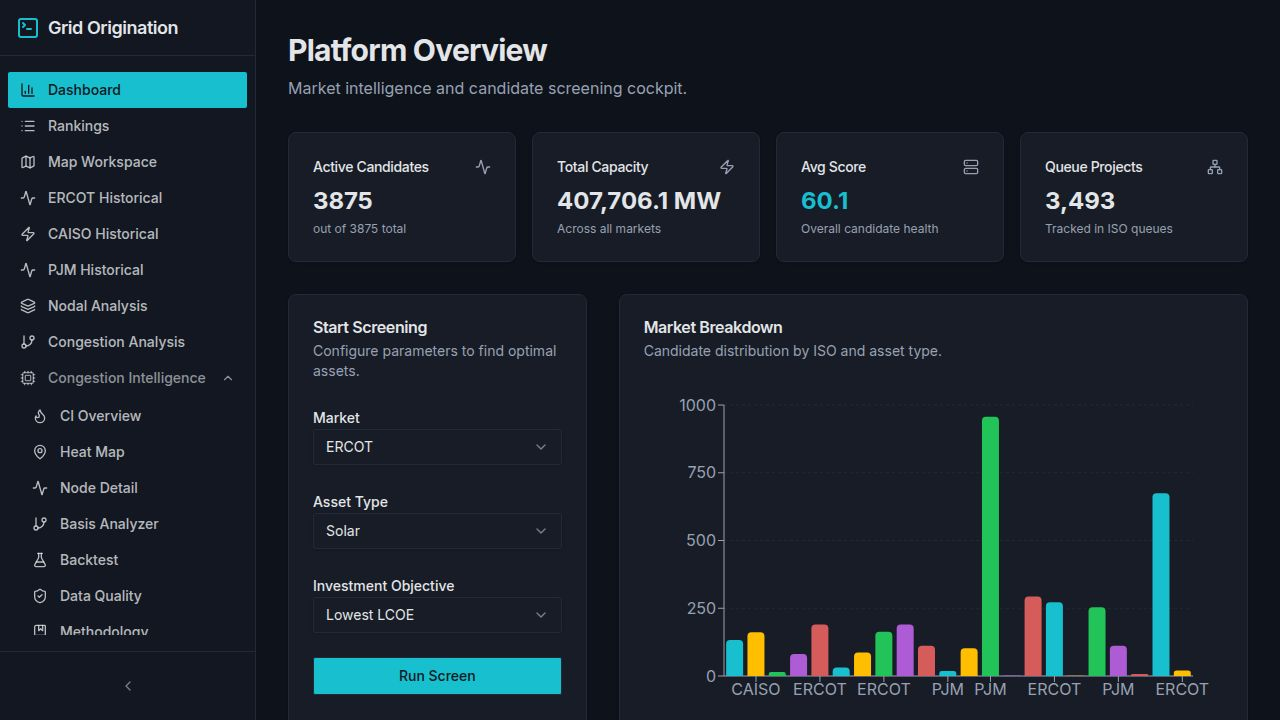
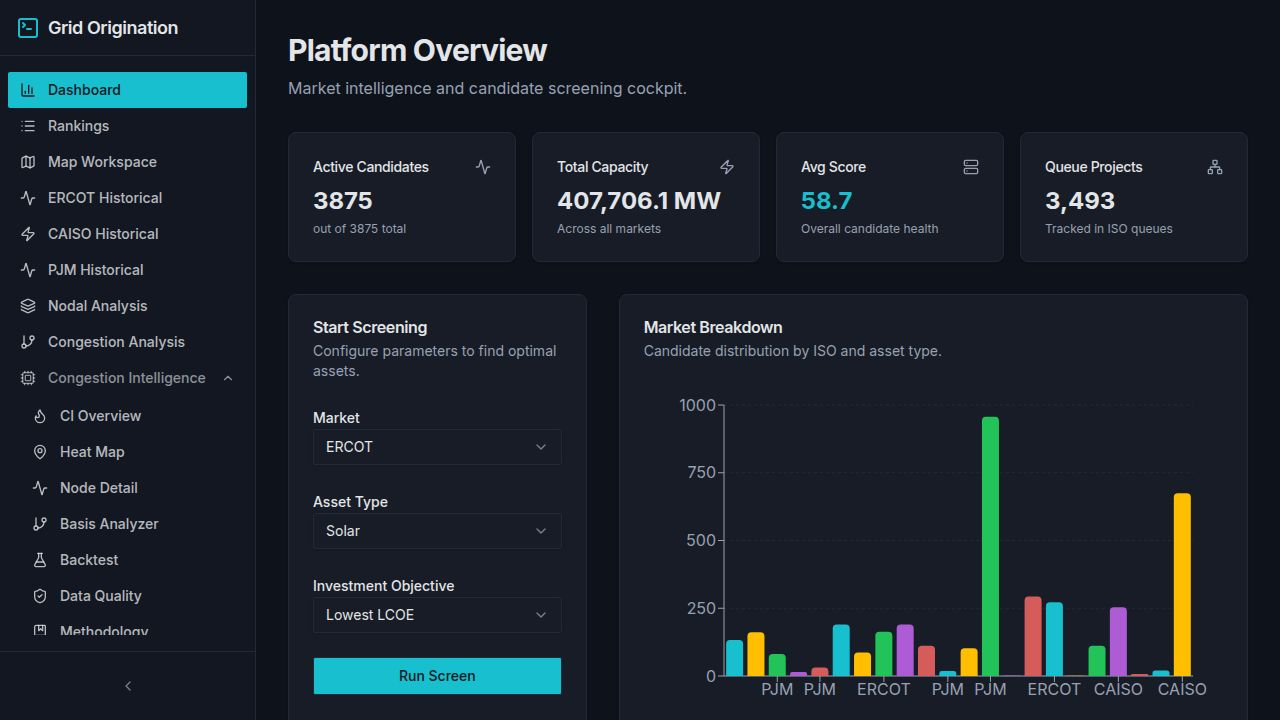
Connect Q&A Copilot to OpenAI with live DB tool-calling
Task: Connect the Q&A Copilot to OpenAI so it can answer real questions about the data

## What was done

### OpenAI integration provisioned
- Called setupReplitAIIntegrations() to provision AI_INTEGRATIONS_OPENAI_BASE_URL
  and AI_INTEGRATIONS_OPENAI_API_KEY via the Replit AI Integrations proxy (no API key needed)

### Upgraded chat.ts model and parameters
- Upgraded model from legacy gpt-4o → gpt-5.4
- Fixed max_tokens (deprecated) → max_completion_tokens: 8192
- Increased tool call rounds from 3 → 4 for multi-step queries
- Moved SSE header setup to top of handler so error events also stream correctly
- Added sql_query / sql_done / sql_error SSE event types so the frontend can show
  real-time "Querying database..." indicators with the LLM's rationale string

### DB schema: conversations + messages tables
- conversations.ts and messages.ts schemas already existed but were missing from
  lib/db/src/schema/index.ts exports → added both exports
- Created tables directly via SQL (drizzle push is interactive and couldn't run headlessly)

### Frontend (qa.tsx) improvements
- Handles new sql_query SSE events → shows animated "Querying database: <rationale>"
  pill below the last assistant message while SQL is running
- Stores SQL query rationale list per-message and renders them as teal pill badges
  under the assistant bubble after response completes (auditable, shows which queries ran)
- Updated badge from hardcoded "Connected" → "OpenAI + Live DB"
[…]

Changed region(s): [[0.8438, 0.6722, 0.9375, 0.9778], [0.5625, 0.8556, 0.6875, 0.9778], [0.625, 0.2444, 0.6562, 0.3056]]

diff --git a/artifacts/grid-platform/src/pages/qa.tsx b/artifacts/grid-platform/src/pages/qa.tsx
@@ -3,36 +3,38 @@ import { CardFooter } from "@/components/ui/card";
 import { Button } from "@/components/ui/button";
 import { Input } from "@/components/ui/input";
 import { ScrollArea } from "@/components/ui/scroll-area";
-import { Bot, User, Send, BrainCircuit, Zap, Loader2 } from "lucide-react";
+import { Bot, User, Send, BrainCircuit, Zap, Loader2, Database, AlertCircle } from "lucide-react";
 import { Badge } from "@/components/ui/badge";
 
 interface Message {
   role: "user" | "assistant";
   content: string;
+  sqlQueries?: string[];
 }
 
 const SUGGESTED = [
-  "What are our top 3 ERCOT candidates by score?",
-  "Explain nodal basis risk for West Texas wind",
-  "Which market has the most active queue projects?",
-  "What drives negative price frequency in ERCOT?",
+  "What are our top 3 ERCOT wind candidates by overall score?",
+  "Which ERCOT nodes have the highest negative price frequency?",
+  "Compare curtailment risk: ERCOT LZ_WEST vs LZ_HOUSTON for wind",
+  "What is the queue depth for solar in CAISO by status?",
 ];
 
 export default function QACopilot() {
   const [messages, setMessages] = useState<Message[]>([
     {
       role: "assistant",
-      content: "I'm the Grid Origination Copilot. Ask me about candidates in your pipeline, nodal pricing spreads, interconnection queue dynamics, or market-specific origination strategy across ERCOT, CAISO, and PJM.",
+      content:
+        "I'm the Grid Origination Copilot, connected to live market data across ERCOT, CAISO, and PJM. I can query the database directly to answer questions about candidates, nodal pricing, congestion risk, curtailment exposure, and interconnection queue dynamics.\n\nTry asking about specific candidates, node spreads, or market comparisons.",
     },
   ]);
   const [input, setInput] = useState("");
   const [isLoading, setIsLoading] = useState(false);
-  const scrollAreaRef = useRef<HTMLDivElement>(null);
+  const [sqlStatus, setSqlStatus] = useState<string | null>(null);
   const messagesEndRef = useRef<HTMLDivElement>(null);
 
   useEffect(() => {
     messagesEndRef.current?.scrollIntoView({ behavior: "smooth" });
-  }, [messages]);
+  }, [messages, sqlStatus]);
 
   const sendMessage = async (text: string) => {
     if (!text.trim() || isLoading) return;
@@ -42,12 +44,15 @@ export default function QACopilot() {
     setMessages(newMessages);
     setInput("");
     setIsLoading(true);
+    setSqlStatus(null);
+
+    const apiMessages = newMessages.map(m => ({ role: m.role, content: m.content }));
 
     try {
       const response = await fetch("/api/chat", {
         method: "POST",
         headers: { "Content-Type": "application/json" },
-        body: JSON.stringify({ messages: newMessages }),
+        body: JSON.stringify({ messages: apiMessages }),
       });
 
       if (!response.ok) throw new Error("Request failed");
@@ -55,8 +60,9 @@ export default function QACopilot() {
       const reader = response.body?.getReader();
       const decoder = new TextDecoder();
       let assistantContent = "";
+      const sqlQueryLog: string[] = [];
 
-      setMessages(prev => [...prev, { role: "assistant", content: "" }]);
+      setMessages(prev => [...prev, { role: "assistant", content: "", sqlQueries: [] }]);
 
       if (reader) {
         while (true) {
@@ -64,29 +70,48 @@ export default function QACopilot() {
           if (done) break;
           const chunk = decoder.decode(value, { stream: true });
           for (const line of chunk.split("\n")) {
-            if (line.startsWith("data: ")) {
-              try {
-                const data = JSON.parse(line.slice(6));
-                if (data.content) {
-                  assistantContent += data.content;
-                  setMessages(prev => {
-                    const updated = [...prev];
-                    updated[updated.length - 1] = { role: "assistant", content: assistantContent };
-                    return updated;
-                  });
-                }
-              } catch {}
-            }
+            if (!line.startsWith("data: ")) continue;
+            try {
+              const data = JSON.parse(line.slice(6)) as Record<string, unknown>;
+              if (data.type === "sql_query" && typeof data.rationale === "string") {
+                setSqlStatus(data.rationale);
+                sqlQueryLog.push(data.rationale);
+              } else if (data.type === "sql_done" || data.type === "sql_error") {
+                setSqlStatus(null);
+              } else if (data.content) {
+                assistantContent += data.content as string;
+                setMessages(prev => {
+                  const updated = [...prev];
+                  updated[updated.length - 1] = {
+                    role: "assistant",
+                    content: assistantContent,
+                    sqlQueries: sqlQueryLog.length > 0 ? [...sqlQueryLog] : undefined,
+                  };
+                  return updated;
+                });
+              } else if (data.error) {
+                assistantContent = String(data.error);
+                setMessages(prev => {
+                  const updated = [...prev];
+                  updated[updated.length - 1] = { role: "assistant", content: assistantContent };
+                  return updated;
+                });
+              }
+            } catch {}
           }
         }
       }
     } catch {
       setMessages(prev => [
         ...prev,
-        { role: "assistant", content: "Sorry, I encountered an error connecting to the AI backend. Please try again." },
+        {
+          role: "assistant",
+          content: "Sorry, I encountered an error connecting to the AI backend. Please try again.",
+        },
       ]);
     } finally {
       setIsLoading(false);
+      setSqlStatus(null);
     }
   };
 
@@ -104,10 +129,16 @@ export default function QACopilot() {
           </div>
           <div>
             <h1 className="text-3xl font-bold tracking-tight">Origination Copilot</h1>
-            <p className="text-muted-foreground">Natural language interface for your market intelligence.</p>
+            <p className="text-muted-foreground">
+              Natural language interface powered by OpenAI + live market data.
+            </p>
           </div>
-          <Badge variant="outline" className="ml-auto bg-card" style={{ color: "#22c55e", borderColor: "rgba(34,197,94,0.3)" }}>
-            <Zap className="mr-1 h-3 w-3" style={{ color: "#22c55e" }} /> Connected
+          <Badge
+            variant="outline"
+            className="ml-auto bg-card"
+            style={{ color: "#22c55e", borderColor: "rgba(34,197,94,0.3)" }}
+          >
+            <Zap className="mr-1 h-3 w-3" style={{ color: "#22c55e" }} /> OpenAI + Live DB
           </Badge>
         </div>
 
@@ -126,7 +157,7 @@ export default function QACopilot() {
         )}
 
         <div className="flex-1 border border-border rounded-xl bg-card/50 overflow-hidden flex flex-col min-h-0">
-          <ScrollArea className="flex-1 p-6" ref={scrollAreaRef}>
+          <ScrollArea className="flex-1 p-6">
             <div className="space-y-5">
               {messages.map((msg, i) => (
                 <div key={i} className={`flex gap-3 ${msg.role === "user" ? "flex-row-reverse" : ""}`}>
@@ -140,8 +171,21 @@ export default function QACopilot() {
                     {msg.role === "user" ? <User className="h-4 w-4" /> : <Bot className="h-4 w-4" />}
                   </div>
                   <div
-                    className={`flex flex-col ${msg.role === "user" ? "items-end" : "items-start"} max-w-[82%]`}
+                    className={`flex flex-col ${msg.role === "user" ? "items-end" : "items-start"} max-w-[82%] gap-1`}
                   >
+                    {msg.role === "assistant" && msg.sqlQueries && msg.sqlQueries.length > 0 && (
+                      <div className="flex flex-wrap gap-1 mb-1">
+                        {msg.sqlQueries.map((q, qi) => (
+                          <span
+                            key={qi}
+                            className="inline-flex items-center gap-1 text-xs px-2 py-0.5 rounded-full bg-primary/10 text-primary border border-primary/20"
+                          >
+                            <Database className="h-3 w-3" />
+                            {q}
+                          </span>
+                        ))}
+                      </div>
+                    )}
                     <div
                       className={`px-4 py-3 rounded-2xl text-sm leading-relaxed whitespace-pre-wrap ${
                         msg.role === "user"
@@ -158,6 +202,19 @@ export default function QACopilot() {
                   </div>
                 </div>
               ))}
+
+              {sqlStatus && (
+                <div className="flex gap-3">
+                  <div className="shrink-0 h-8 w-8 rounded-full flex items-center justify-center bg-secondary border border-border">
+                    <Database className="h-4 w-4 text-primary animate-pulse" />
+                  </div>
+                  <div className="flex items-center gap-2 px-4 py-2.5 rounded-2xl rounded-tl-sm bg-primary/10 border border-primary/20 text-sm text-primary">
+                    <Loader2 className="h-3.5 w-3.5 animate-spin" />
+                    {sqlStatus}
+                  </div>
+                </div>
+              )}
+
               <div ref={messagesEndRef} />
             </div>
           </ScrollArea>
@@ -178,6 +235,10 @@ export default function QACopilot() {
             </form>
           </CardFooter>
         </div>
+
+        <p className="text-xs text-muted-foreground text-center shrink-0">
+          Copilot can query live DB data — ERCOT, CAISO, PJM prices · 3,875 EIA candidates · Interconnection queues
+        </p>
       </div>
     </div>
   );

diff --git a/artifacts/api-server/src/routes/chat.ts b/artifacts/api-server/src/routes/chat.ts
@@ -19,10 +19,17 @@ async function runSafeQuery(query: string): Promise<{ columns: string[]; rows: R
 }
 
 router.post("/chat", async (req, res) => {
+  res.setHeader("Content-Type", "text/event-stream");
+  res.setHeader("Cache-Control", "no-cache");
+  res.setHeader("Connection", "keep-alive");
+
+  const sendEvent = (data: Record<string, unknown>) => res.write(`data: ${JSON.stringify(data)}\n\n`);
+
   try {
     const { messages } = req.body;
     if (!messages || !Array.isArray(messages)) {
-      res.status(400).json({ error: "messages array required" });
+      sendEvent({ error: "messages array required" });
+      res.end();
       return;
     }
 
@@ -90,9 +97,9 @@ router.post("/chat", async (req, res) => {
         `  ${r.node.padEnd(16)}${r.node_type ? r.node_type.padEnd(12) : ""}DA=$${String(r.avg_da).padStart(6)}  ${r.avg_rt !== undefined ? `RT=$${String(r.avg_rt).padStart(6)}  ` : ""}vol=${String(r.avg_vol).padStart(6)}  neg%=${String(r.neg_pct).padStart(5)}%  (${r.months}mo)`
       ).join("\n");
 
-    const systemPrompt = `You are the Grid Origination Copilot — an expert AI assistant for power market siting, PPA origination, and energy procurement across ERCOT, CAISO, and PJM.
+    const systemPrompt = `You are the Grid Origination Copilot — an expert AI assistant for power market siting, PPA origination, and energy procurement across ERCOT, CAISO, and PJM. You are advising Walmart's energy procurement team.
 
-You have a live PostgreSQL database with real market data. Use the run_sql tool when you need specific data not already shown below.
+You have a live PostgreSQL database with real market data. Use the run_sql tool when you need specific data not already shown below. Always be quantitative and cite data sources.
 
 ━━━ DATABASE SCHEMA ━━━
 TABLE candidates  (3,875 rows — EIA 860 operable generators >1 MW)
@@ -145,7 +152,8 @@ ${pipelineSummary.rows.map(r => `  ${r.market.padEnd(7)} ${r.asset_type.padEnd(1
 - Congestion risk ↑ when volatility is high and DA-RT spreads are wide.
 - Curtailment risk ↑ when neg_price_percent is high (ERCOT wind LZ_WEST ~7-22%, solar worse).
 - Basis risk = DA-RT settlement spread + volatility at the project's delivery node.
-- Be quantitative and cite the data source (CDR 13060/13061 for ERCOT, OASIS for CAISO).`;
+- Be quantitative and cite the data source (CDR 13060/13061 for ERCOT, OASIS for CAISO).
+- Format responses with clear headers, bullet points, and tables where appropriate.`;
 
     const tools: Parameters<typeof openai.chat.completions.create>[0]["tools"] = [
       {
@@ -164,7 +172,7 @@ ${pipelineSummary.rows.map(r => `  ${r.market.padEnd(7)} ${r.asset_type.padEnd(1
               },
               rationale: {
                 type: "string",
-                description: "One-line reason for the query",
+                description: "One-line reason for the query (shown to user as loading indicator)",
               },
             },
             required: ["query", "rationale"],
@@ -178,13 +186,13 @@ ${pipelineSummary.rows.map(r => `  ${r.market.padEnd(7)} ${r.asset_type.padEnd(1
       ...(messages as Parameters<typeof openai.chat.completions.create>[0]["messages"]),
     ];
 
-    const MAX_TOOL_ROUNDS = 3;
+    const MAX_TOOL_ROUNDS = 4;
     let toolRounds = 0;
 
     while (toolRounds < MAX_TOOL_ROUNDS) {
       const response = await openai.chat.completions.create({
-        model: "gpt-4o",
-        max_tokens: 2048,
+        model: "gpt-5.4",
+        max_completion_tokens: 8192,
         messages: apiMessages,
         tools,
         tool_choice: "auto",
@@ -197,13 +205,18 @@ ${pipelineSummary.rows.map(r => `  ${r.market.padEnd(7)} ${r.asset_type.padEnd(1
         for (const toolCall of choice.message.tool_calls) {
           if (toolCall.function.name === "run_sql") {
             let toolResult: string;
+            let rationale = "Querying database...";
             try {
               const args = JSON.parse(toolCall.function.arguments) as { query: string; rationale: string };
+              rationale = args.rationale ?? rationale;
               req.log.info({ query: args.query }, "copilot sql query");
+              sendEvent({ type: "sql_query", rationale });
               const result = await runSafeQuery(args.query);
+              sendEvent({ type: "sql_done", rows: result.rows.length });
               toolResult = JSON.stringify({ rows: result.rows, count: result.rows.length });
             } catch (err) {
               toolResult = JSON.stringify({ error: String(err) });
+              sendEvent({ type: "sql_error", error: String(err) });
             }
             apiMessages.push({ role: "tool", tool_call_id: toolCall.id, content: toolResult });
           }
@@ -214,28 +227,23 @@ ${pipelineSummary.rows.map(r => `  ${r.market.padEnd(7)} ${r.asset_type.padEnd(1
       }
     }
 
-    res.setHeader("Content-Type", "text/event-stream");
-    res.setHeader("Cache-Control", "no-cache");
-    res.setHeader("Connection", "keep-alive");
-
     const stream = await openai.chat.completions.create({
-      model: "gpt-4o",
-      max_tokens: 2048,
+      model: "gpt-5.4",
+      max_completion_tokens: 8192,
       messages: apiMessages,
       stream: true,
     });
 
     for await (const chunk of stream) {
       const content = chunk.choices[0]?.delta?.content;
-      if (content) res.write(`data: ${JSON.stringify({ content })}\n\n`);
+      if (content) sendEvent({ content });
     }
 
-    res.write(`data: ${JSON.stringify({ done: true })}\n\n`);
+    sendEvent({ done: true });
     res.end();
   } catch (err) {
     req.log.error({ err }, "chat error");
-    res.setHeader("Content-Type", "text/event-stream");
-    res.write(`data: ${JSON.stringify({ error: "Failed to generate response" })}\n\n`);
+    sendEvent({ error: "Failed to generate response. Please try again." });
     res.end();
   }
 });

diff --git a/lib/db/src/schema/index.ts b/lib/db/src/schema/index.ts
@@ -6,3 +6,5 @@ export * from "./caiso_node_stats";
 export * from "./pjm_node_stats";
 export * from "./queue_projects";
 export * from "./ercot_hub_hourly";
+export * from "./conversations";
+export * from "./messages";